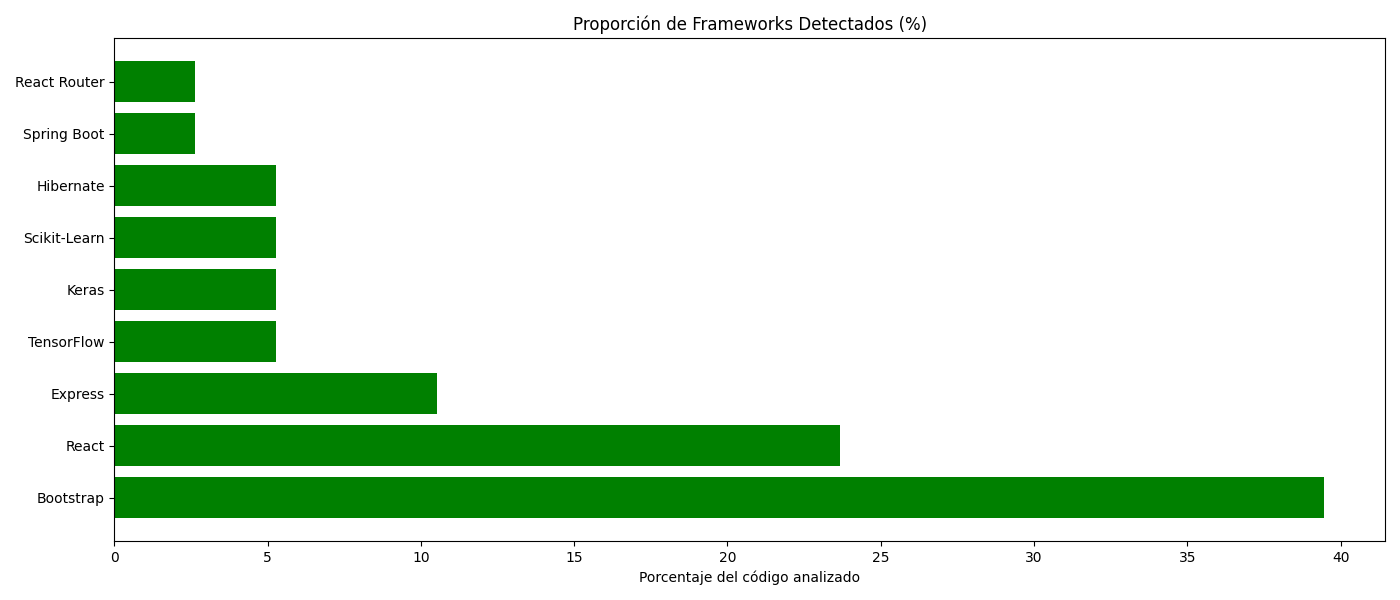
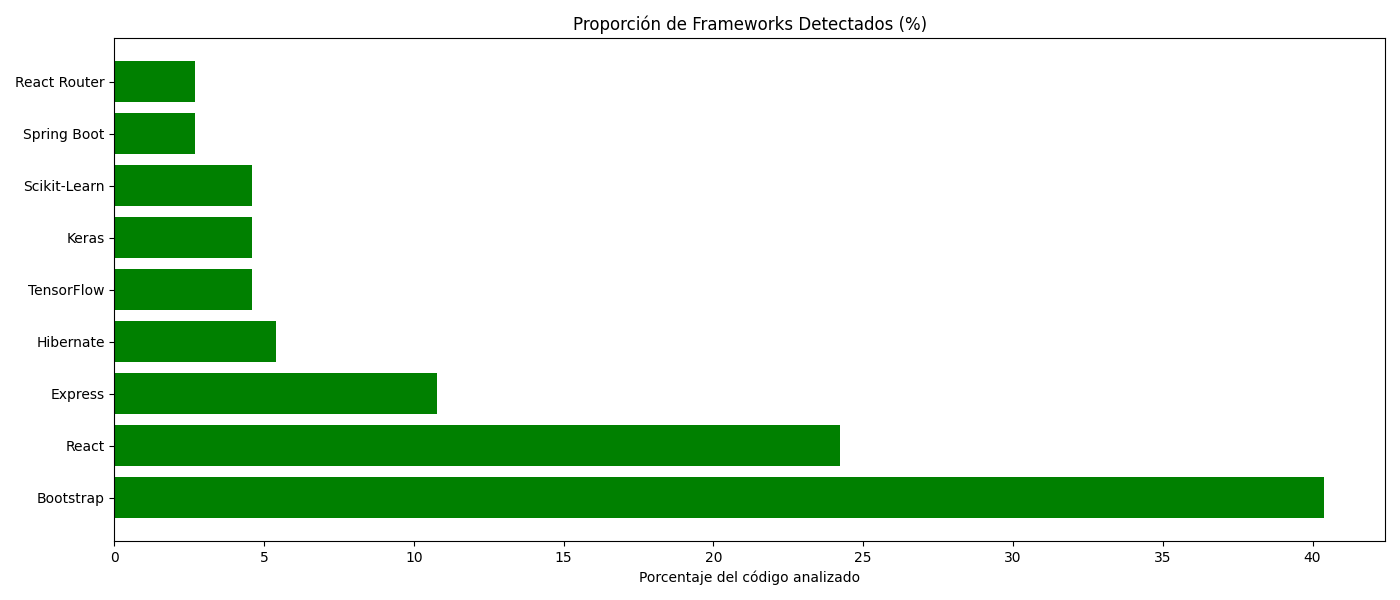
Update framework stats

diff --git a/output/frameworks.md b/output/frameworks.md
@@ -1,11 +1,11 @@
 ## 🚀 Frameworks detectados (solo frameworks reales)
 
-- **Bootstrap**: 1500 apariciones (~39.5%)
-- **React**: 900 apariciones (~23.7%)
-- **Express**: 400 apariciones (~10.5%)
-- **TensorFlow**: 200 apariciones (~5.3%)
-- **Keras**: 200 apariciones (~5.3%)
-- **Scikit-Learn**: 200 apariciones (~5.3%)
-- **Hibernate**: 200 apariciones (~5.3%)
-- **Spring Boot**: 100 apariciones (~2.6%)
-- **React Router**: 100 apariciones (~2.6%)
+- **Bootstrap**: 1500 apariciones (~40.4%)
+- **React**: 900 apariciones (~24.2%)
+- **Express**: 400 apariciones (~10.8%)
+- **Hibernate**: 200 apariciones (~5.4%)
+- **TensorFlow**: 171 apariciones (~4.6%)
+- **Keras**: 171 apariciones (~4.6%)
+- **Scikit-Learn**: 171 apariciones (~4.6%)
+- **Spring Boot**: 100 apariciones (~2.7%)
+- **React Router**: 100 apariciones (~2.7%)

diff --git a/README.md b/README.md
@@ -594,6 +594,17 @@ Tambien ultima mente le estoy agarrando el gusto a la electronica y electromecan
 <!-- AUTO-FRAMEWORKS -->
 ## 🚀 Frameworks detectados (solo frameworks reales)
 
+- **Bootstrap**: 1500 apariciones (~40.4%)
+- **React**: 900 apariciones (~24.2%)
+- **Express**: 400 apariciones (~10.8%)
+- **Hibernate**: 200 apariciones (~5.4%)
+- **TensorFlow**: 171 apariciones (~4.6%)
+- **Keras**: 171 apariciones (~4.6%)
+- **Scikit-Learn**: 171 apariciones (~4.6%)
+- **Spring Boot**: 100 apariciones (~2.7%)
+- **React Router**: 100 apariciones (~2.7%)
+## 🚀 Frameworks detectados (solo frameworks reales)
+
 - **Bootstrap**: 1500 apariciones (~39.5%)
 - **React**: 900 apariciones (~23.7%)
 - **Express**: 400 apariciones (~10.5%)
